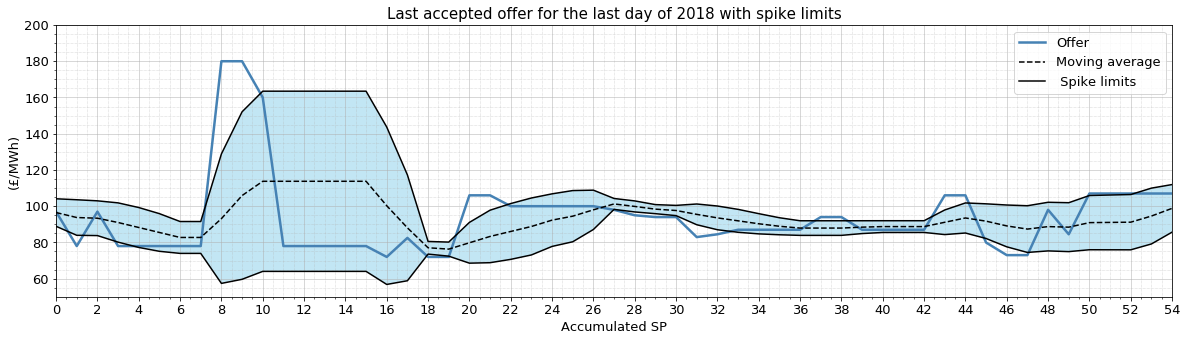
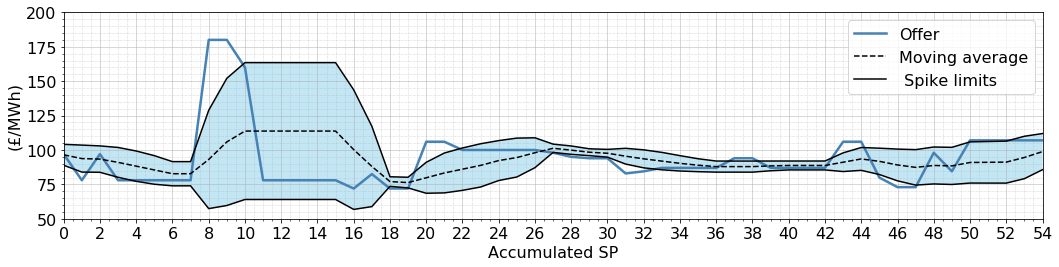
Changes in graphs for quantificaiton of SP for different years and months for report

Changed region(s): [[0.0, 0.0, 0.9972, 0.9888]]

diff --git a/_Spike_Classification/Visualisation_Spike_BinaryDataSet.py b/_Spike_Classification/Visualisation_Spike_BinaryDataSet.py
@@ -19,15 +19,15 @@ data = pd.read_csv('Spike_binary_1std.csv', index_col = 0)
 
 w = 55
 w_plot = 55
-fontsize = 13
+fontsize = 16
 
-plt.figure(figsize=(20,5))
+plt.figure(figsize=(15,4))
 plt.plot(np.arange(0, (w_plot)), data[-w_plot:]['Offers'], label = 'Offer', linewidth = 2.5, color = 'steelblue')
 plt.plot(np.arange(0, (w_plot)), data[-w_plot:]['sma'], label = 'Moving average', linestyle = 'dashed', color = 'black')
 plt.plot(np.arange(0, (w_plot)), data[-w_plot:]['spike_upperlim'], color = 'black')
 plt.plot(np.arange(0, (w_plot)), data[-w_plot:]['spike_lowerlim'], label = ' Spike limits', color = 'black')
 plt.fill_between(np.arange(0, (w_plot)),  data['spike_lowerlim'][-w_plot:],data['spike_upperlim'][-w_plot:], facecolor='skyblue', alpha=0.5)
-plt.title('Last accepted offer for the last day of 2018 with spike limits', fontsize = fontsize + 2)
+#plt.title('Last accepted offer for the last day of 2018 with spike limits', fontsize = fontsize + 2)
 plt.xticks(np.arange(0, (w_plot), 2), fontsize = fontsize)
 plt.yticks(fontsize = fontsize)
 plt.legend(fontsize = fontsize)
@@ -39,6 +39,7 @@ plt.ylim(50, 200)
 plt.minorticks_on()
 plt.grid(which='major', linestyle='-', linewidth='0.5')
 plt.grid(which='minor', linestyle=':', linewidth='0.5')
+plt.tight_layout()
 plt.show()
 #plt.savefig('Plot_Spike_limits_w_48.png')
 
@@ -52,15 +53,15 @@ data['spike_occurance'] = ((data['Offers'] > data['spike_upperlim']) | (data['Of
 
 w = 55
 w_plot = 55
-fontsize = 13
+fontsize = 16
 
-plt.figure(figsize=(20,5))
+plt.figure(figsize=(15, 4))
 plt.plot(np.arange(0, (w_plot)), data[-w_plot:]['Offers'], label = 'Offer', linewidth = 2.5, color = 'steelblue')
 plt.plot(np.arange(0, (w_plot)), data[-w_plot:]['sma'], label = 'Moving average', linestyle = 'dashed', color = 'black')
 plt.plot(np.arange(0, (w_plot)), data[-w_plot:]['spike_upperlim'], color = 'black')
 plt.plot(np.arange(0, (w_plot)), data[-w_plot:]['spike_lowerlim'], label = ' Spike limits', color = 'black')
 plt.fill_between(np.arange(0, (w_plot)),  data['spike_lowerlim'][-w_plot:],data['spike_upperlim'][-w_plot:], facecolor='skyblue', alpha=0.5)
-plt.title('Last accepted offer for the last day of 2018 with spike limits', fontsize = fontsize + 2)
+#plt.title('Last accepted offer for the last day of 2018 with spike limits', fontsize = fontsize + 2)
 plt.xticks(np.arange(0, (w_plot), 2), fontsize = fontsize)
 plt.yticks(fontsize = fontsize)
 plt.legend(fontsize = fontsize)
@@ -72,6 +73,7 @@ plt.ylim(50, 200)
 plt.minorticks_on()
 plt.grid(which='major', linestyle='-', linewidth='0.5')
 plt.grid(which='minor', linestyle=':', linewidth='0.5')
+plt.tight_layout()
 plt.show()
 #plt.savefig('Plot_Spike_limits_w_8.png')
 
@@ -171,39 +173,40 @@ max_spike_16 = spike_var_16['num_spikes'].max()
 # spike occurences plot
 
 # 2018, 2017, 2016
-plt.figure(figsize=(15,5))
+plt.figure(figsize=(15,4.5))
 plt.plot(range_w, spike_var_18['num_spikes'], label = '2018', linewidth = 2, color = 'cornflowerblue')
 plt.plot(range_w, spike_var_17['num_spikes'], label = '2017', linewidth = 2, color = 'slateblue')
 plt.plot(range_w, spike_var_16['num_spikes'], label = '2016', linewidth = 2, color = 'plum')
 plt.ylabel('Number of SP', fontsize = fontsize)
-plt.xlabel('Window number (SP)', fontsize = fontsize)
+plt.xlabel('Rolling window number (SP)', fontsize = fontsize)
 plt.xticks(np.arange(0, 62, 2), fontsize = fontsize)
 plt.yticks(fontsize = fontsize)
 plt.scatter(spike_var_18[spike_var_18['num_spikes'] == max_spike_18].window, max_spike_18 , color = 'red', label = 'Maximum values')
-plt.text(spike_var_18[spike_var_18['num_spikes'] == max_spike_18].window , max_spike_18 + 200, '({},{})'.format(spike_var_18[spike_var_18['num_spikes'] == max_spike_18].window.iloc[0], max_spike_18))
+plt.text(spike_var_18[spike_var_18['num_spikes'] == max_spike_18].window , max_spike_18 + 200, '({},{})'.format(spike_var_18[spike_var_18['num_spikes'] == max_spike_18].window.iloc[0], max_spike_18), fontsize = fontsize - 2)
 plt.scatter(spike_var_17[spike_var_17['num_spikes'] == max_spike_17].window, max_spike_17 , color = 'red')
-plt.text(spike_var_17[spike_var_17['num_spikes'] == max_spike_17].window + 1, max_spike_17 - 200, '({},{})'.format(spike_var_17[spike_var_17['num_spikes'] == max_spike_17].window.iloc[0], max_spike_17))
+plt.text(spike_var_17[spike_var_17['num_spikes'] == max_spike_17].window + 0.5, max_spike_17 - 500, '({},{})'.format(spike_var_17[spike_var_17['num_spikes'] == max_spike_17].window.iloc[0], max_spike_17), fontsize = fontsize - 2)
 plt.scatter(spike_var_16[spike_var_16['num_spikes'] == max_spike_16].window, max_spike_16 , color = 'red')
-plt.text(spike_var_16[spike_var_16['num_spikes'] == max_spike_16].window , max_spike_16 + 200, '({},{})'.format(spike_var_16[spike_var_16['num_spikes'] == max_spike_16].window.iloc[0], max_spike_16))
-plt.title('Number of spike occurences for different roling windows', fontsize= fontsize + 2)
+plt.text(spike_var_16[spike_var_16['num_spikes'] == max_spike_16].window , max_spike_16 + 100, '({},{})'.format(spike_var_16[spike_var_16['num_spikes'] == max_spike_16].window.iloc[0], max_spike_16), fontsize = fontsize - 2)
+plt.title('Number of spike occurences using different roling windows\n', fontsize= fontsize + 2)
 plt.minorticks_on()
 plt.grid(which='major', linestyle='-', linewidth='0.5')
 plt.grid(which='minor', linestyle=':', linewidth='0.5')
-plt.legend(fontsize = fontsize)
+plt.legend(fontsize = fontsize - 3)
 plt.xlim(0, 60)
+plt.tight_layout()
 plt.show()
 #plt.savefig('Spike_occur_all_years.png')
 
 # plot of both spike occurences and normal opperation SP together
 # 2018
-plt.figure(figsize=(15,5))
-plt.plot(range_w, spike_var_18['num_spikes'], linewidth = 2, label = 'Number of SP with spike occurences', color = 'cornflowerblue')
-plt.plot(range_w, spike_var_18['num_normal'], linewidth = 2, label = 'Number of SP under normal operation', linestyle = 'dashed', color = 'cornflowerblue')
+plt.figure(figsize=(15,4.5))
+plt.plot(range_w, spike_var_18['num_spikes'], linewidth = 2, label = 'Spike occurence', color = 'cornflowerblue')
+plt.plot(range_w, spike_var_18['num_normal'], linewidth = 2, label = 'No spike occurence', linestyle = 'dashed', color = 'cornflowerblue')
 plt.ylabel('Number of SP', fontsize = fontsize)
 plt.xlabel('Window number (SP)', fontsize = fontsize)
-plt.title('Number of SP with spike occurences and normal regions for the year of 2018 for different rolling windows', fontsize= 15)
+plt.title('Number of SP with spike occurences and no spike occurence for 2018 using different rolling windows\n', fontsize = fontsize + 2)
 plt.xticks(np.arange(0, 62, 2), fontsize = fontsize)
-plt.yticks(fontsize = fontsize)
+plt.yticks([0, 2500, 5000, 7500, 10000, 12500, 15000, 17500], fontsize = fontsize)
 plt.xlim(0, 60)
 #plt.scatter(spike_var[spike_var['num_normal'] == max_num].window, max_num , color = 'red')
 plt.scatter(spike_var_18[spike_var_18['num_spikes'] == max_spike_18].window, max_spike_18 , color = 'red', label = 'Maximum value')
@@ -212,6 +215,7 @@ plt.minorticks_on()
 plt.grid(which='major', linestyle='-', linewidth='0.5')
 plt.grid(which='minor', linestyle=':', linewidth='0.5')
 plt.legend(fontsize = fontsize)
+plt.tight_layout()
 plt.show()
 #plt.savefig('Spike_occur_2018.png')
 
@@ -220,7 +224,6 @@ plt.show()
 # =============================================================================
 
 w = 48
-plt.figure(figsize=(15,5))
 data['sma'] = data['Offers'].rolling(window = w).mean()
 data['std'] = data['Offers'].rolling(w).std()
 data['spike_upperlim'] = data['sma'] + (data['std'])
@@ -268,8 +271,8 @@ for i in range(0, len(spike_occurance_18)):
     
 
 # PLOT RESULTS
-fig, ax1 = plt.subplots(figsize=(11,4))
-
+fig, ax1 = plt.subplots(figsize=(15,4.5))
+plt.rcParams.update({'font.size': 16})
 ax1.set_xlabel('Months of the year', fontsize = fontsize)
 ax1.set_ylabel('Number of SP', fontsize = fontsize)
 ax1.minorticks_on()
@@ -281,7 +284,7 @@ ax1.plot([1, 2, 3, 4, 5, 6, 7, 8, 9, 10, 11, 12], count_16, color = 'plum', labe
 ax1.set_xticks([1,2,3,4,5,6,7,8,9, 10, 11,12])
 ax1.set_xlim([1,12])
 ax1.legend(fontsize = fontsize)
-ax1.set_title('Number of spikes per month for 2018, 2017 and 2019 and respective percentages', fontsize = fontsize + 2)
+ax1.set_title('Number of spikes per month fand respective percentages\n', fontsize = fontsize + 3)
 
 ax2 = ax1.twinx()  # instantiate a second axes that shares the same x-axis
 ax2.set_ylabel('Percentage of SP (%)', fontsize = fontsize)
@@ -289,7 +292,7 @@ ax2.plot([1, 2, 3, 4, 5, 6, 7, 8, 9, 10, 11, 12], perc_18, color = 'none')
 ax2.plot([1, 2, 3, 4, 5, 6, 7, 8, 9, 10, 11, 12], perc_17, color = 'none')
 ax2.plot([1, 2, 3, 4, 5, 6, 7, 8, 9, 10, 11, 12], perc_16, color = 'none')
 
-plt.rcParams.update({'font.size': 13})
+
 
 fig.tight_layout()  # otherwise the right y-label is slightly clipped
 plt.show()
